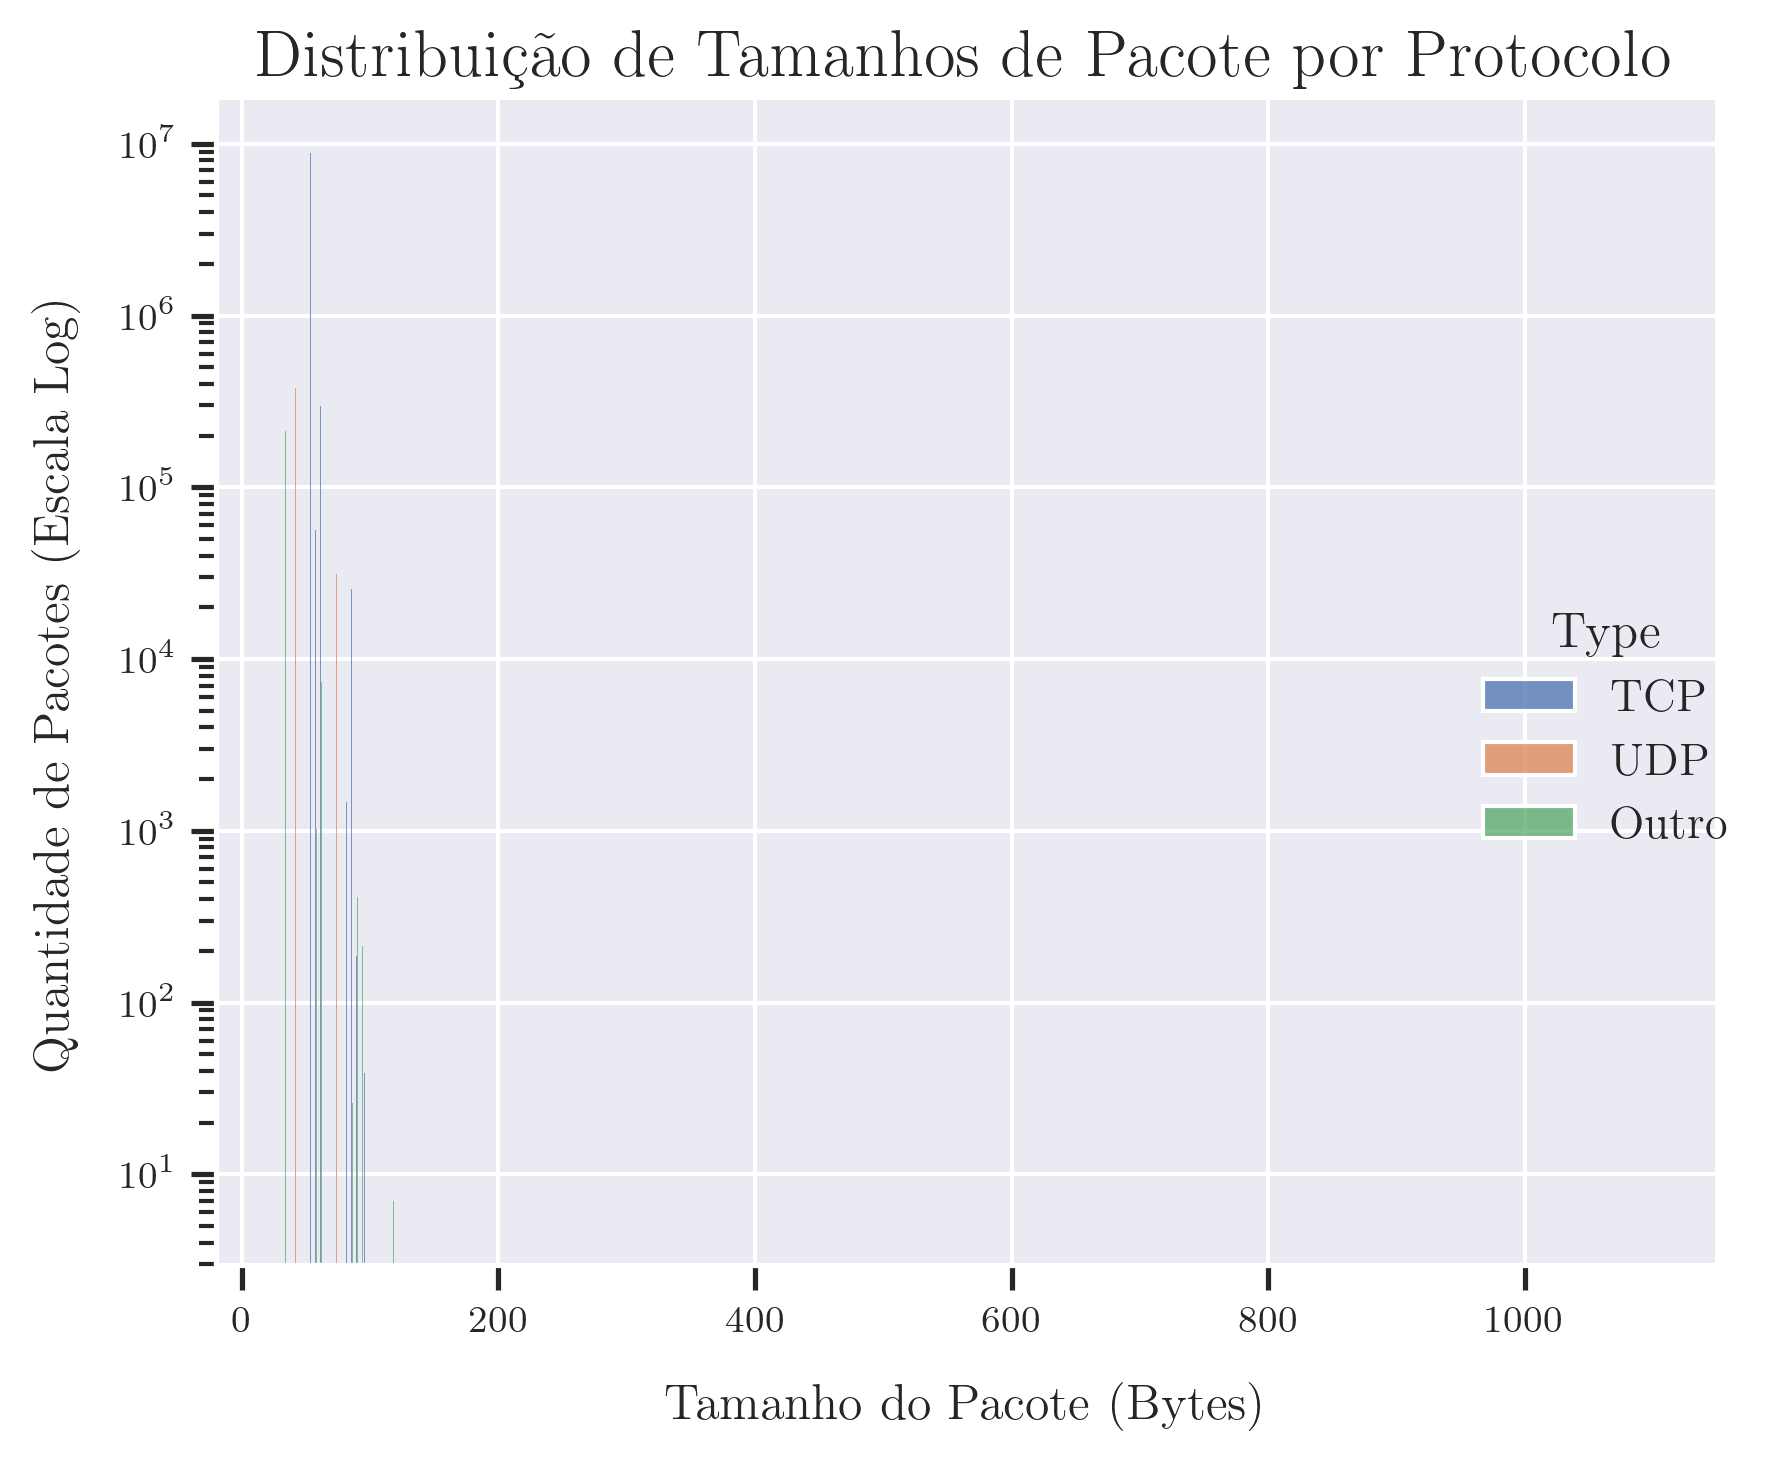
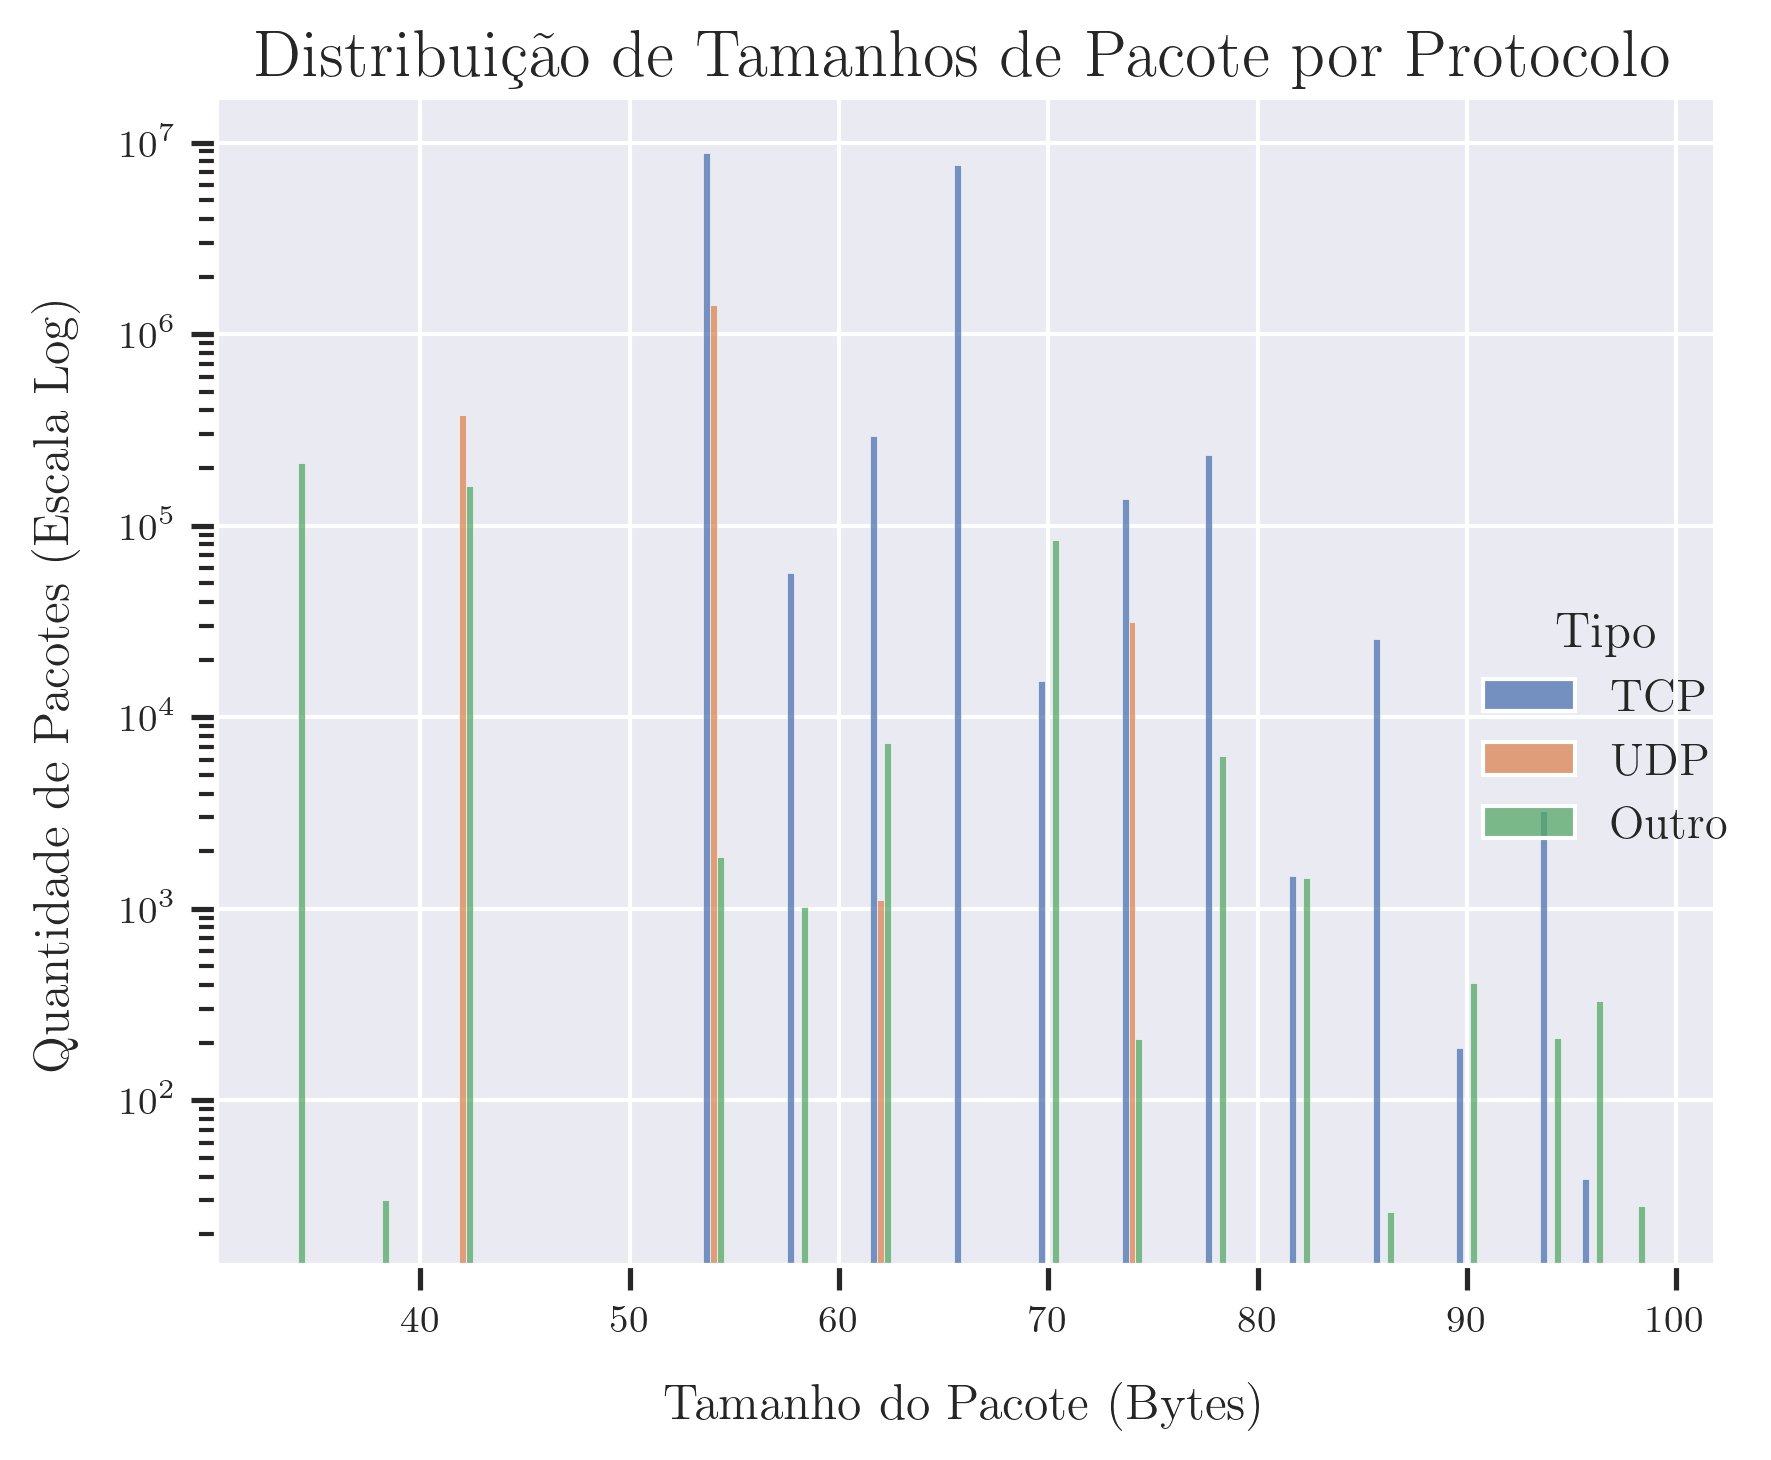
feat(report): 200701251400 analysis

diff --git a/report/text/02_analysis.tex b/report/text/02_analysis.tex
@@ -3,29 +3,30 @@
 A primeira etapa do projeto consistiu em realizar uma análise exploratória sobre os dados de tráfego para
 compreender suas características fundamentais.
 O \emph{dataset} original, após ser processado, resultou em uma série temporal de volume de tráfego agregado
-por segundo.
+por segundo. O primeiro \emph{dataset} escolhido para análise foi o \texttt{200701251400.dump.gz}, por conter
+um volume maior de dados.
 
 \begin{table}[!htb]
     \centering
-    \caption{Estatísticas descritivas para a série temporal de \texttt{bytes\_per\_second}.}
+    \caption{Estatísticas descritivas para a série temporal do \texttt{200701251400.dump.gz}.}
     \label{tab:eda-describe}
     \input{resource/200701251400.describe.tex}
 \end{table}
 
-A \Cref{tab:eda-describe} apresenta as estatísticas descritivas da série.
-[... Adicione seus comentários aqui sobre a média, desvio padrão, e a faixa de valores (min/max) ...]
+As estatísticas descritivas na \Cref{tab:eda-describe} fornecem um resumo de alto nível da intensidade do
+tráfego de rede durante o período de captura de 15 minutos. O tráfego apresenta uma média de aproximadamente
+1,27 MiB/s. No entanto, o desvio padrão é relativamente alto, 124,5 KiB/s, o que representa cerca de 10\% da
+média. No entanto, podemos ver que essa instabilidade não aparece na série temporal da
+\Cref{fig:eda-timeseries}, o que indica que as bordas da série causam esse alto valor de desvio padrão.
 
 \begin{figure}[!htb]
     \centering
     \includegraphics[width=0.95\textwidth]{resource/200701251400.protocol_dist.png}
-    \caption{Distribuição de tamanhos de pacote para os protocolos TCP e UDP. A frequência (eixo Y) está em
+    \caption{Distribuição de tamanhos de pacote para os protocolos TCP e UDP em
+        \texttt{200701251400.dump.gz}. A frequência (eixo Y) está em
     escala logarítmica para melhor visualização.}
     \label{fig:eda-protocol-dist}
 \end{figure}
-
-A \Cref{fig:eda-protocol-dist} ilustra a distribuição dos tamanhos de pacote.
-[... Adicione seus comentários aqui, observando por exemplo os picos de pacotes pequenos (ACKs TCP) e grandes
-(dados) ...]
 
 \begin{figure}[!htb]
     \centering
@@ -34,8 +35,11 @@ A \Cref{fig:eda-protocol-dist} ilustra a distribuição dos tamanhos de pacote.
     \label{fig:eda-timeseries}
 \end{figure}
 
-A \Cref{fig:eda-timeseries} mostra o comportamento do tráfego ao longo do tempo.
-[... Adicione seus comentários sobre a volatilidade, picos e períodos de estabilidade ...]
+O gráfico do tráfego agregado ao longo do tempo na \Cref{fig:eda-timeseries} oferece uma visão intuitiva do
+comportamento dos dados. A série parece ter uma linha de base relativamente estável em torno de 1,2-1,4
+MiB/s. Não há tendências óbvias e de longo prazo para cima ou para baixo nessa janela de 15 minutos, mas há
+``regimes'' claros em que o tráfego é maior e mais volátil, seguido por períodos em que é menor e mais
+estável. As quedas repentinas no início e no final são provavelmente artefatos do início e da interrupção da captura.
 
 \begin{figure}[!htb]
     \centering
@@ -46,9 +50,20 @@ A \Cref{fig:eda-timeseries} mostra o comportamento do tráfego ao longo do tempo
 \end{figure}
 
 Para uma análise mais aprofundada, decompomos a série em seus componentes de tendência, sazonalidade e
-resíduos, como visto na \Cref{fig:eda-decomposition}.
+resíduos, como visto na .
 [... Adicione seus comentários sobre a tendência de longo prazo e os padrões periódicos (sazonais) que o
 modelo precisará aprender ...]
+
+A análise de decomposição na \Cref{fig:eda-decomposition} fornece os insights mais profundos. A componente de
+tendência revela as alterações subjacentes e lentas no volume de tráfego. Podemos ver uma diminuição gradual
+na carga geral de tráfego desde o início até por volta da marca de 05:08, após o que ela começa a se
+recuperar ligeiramente. Isso mostra que a série não é completamente estacionária.
+
+O componente sazonal mostra claramente um padrão forte e repetitivo com um período de 60 segundos. Isso pode
+ser bem útil, pois indica um comportamento cíclico no uso da rede, talvez causado por processos automatizados
+em segundo plano, ferramentas de monitoramento ou comportamentos agregados de usuários que se repetem minuto
+a minuto. Por fim, o componente residual mostra o ``ruído'' ou as flutuações aleatórias deixadas após a
+remoção da tendência e da sazonalidade.
 
 \begin{figure}[!htb]
     \centering
@@ -57,7 +72,14 @@ modelo precisará aprender ...]
     \label{fig:eda-acf-pacf}
 \end{figure}
 
-Finalmente, a \Cref{fig:eda-acf-pacf} mostra as funções de autocorrelação. O decaimento lento da ACF confirma
-a presença de uma forte tendência. A PACF, por sua vez, mostra correlações significativas nos primeiros lags,
-justificando o uso de uma janela de look-back para o modelo LSTM.
-[... Adicione seus comentários ...]
+Por fim, os gráficos ACF e PACF na \Cref{fig:eda-acf-pacf} fornecem uma confirmação estatística dos padrões
+observados anteriormente.
+O gráfico da ACF mostra um decaimento muito lento. A correlação com valores passados permanece alta mesmo
+depois de alguns pontos, o que é um sinal clássico de uma não estacionariedade nos dados. Ela também confirma
+que o valor do tráfego em um segundo é altamente dependente do valor do segundo anterior.
+
+O gráfico PACF é crucial para a escolha da janela look_back. Ele mostra um pico muito grande na defasagem 1,
+indicando uma forte correlação direta com o valor imediatamente anterior. Em seguida, a correlação cai
+drasticamente, tornando-se estatisticamente insignificante após cerca de 10 a 12 defasagens. Isso fornece uma
+forte justificativa estatística para experimentar uma janela look_back de 10, pois ela representa a memória
+de curto prazo mais significativa da série.

diff --git a/network_traffic_predictor/analysis.py b/network_traffic_predictor/analysis.py
@@ -45,10 +45,11 @@ def _descriptive_stats(traffic_per_sec: pl.DataFrame, basename: Path, *, log: IO
     Generates a bytes_per_second time series and calculates its descriptive statistics.
     """
     print('--- Descriptive Statistics for Bytes per Second ---', file=log)
-    stats = traffic_per_sec.select('bytes_per_second').describe()
+    stats = traffic_per_sec.select(kbps=pl.col('bytes_per_second') / 1024).describe()
     print(stats, file=log)
     stats.to_pandas().to_latex(
         buf=basename.parent / f'{basename.stem}.describe.tex',
+        float_format='%.1f',
         index=False,
         escape=True,
     )
@@ -61,9 +62,9 @@ def _protocol_histogram(df: pl.DataFrame, basename: Path, *, log: IO[str]) -> No
     _ = plt.figure(figsize=(12, 7))
 
     _ = sns.displot(
-        df.select('Size (bytes)', 'Type').to_pandas(),
+        df.select('Size (bytes)', Tipo='Type').filter(pl.col('Size (bytes)') <= 100).to_pandas(),
         x='Size (bytes)',
-        hue='Type',
+        hue='Tipo',
         kind='hist',
         discrete=True,
         binwidth=1,
@@ -106,7 +107,7 @@ def _time_series_decomposition(traffic_per_sec: pl.DataFrame, basename: Path, *,
     """
     Decomposition of the time series using `statsmodel`.
     """
-    PERIOD: Final = 60 * 60
+    PERIOD: Final = 60
     print(f'Time series decomposition: assuming period of {PERIOD} seconds.', file=log)
     if len(traffic_per_sec) < 2 * PERIOD:
         print(f'Warning: Time series is too short for seasonal decomposition with period={PERIOD}. Skipping.', file=log)

diff --git a/results/200701251400.describe.tex b/results/200701251400.describe.tex
@@ -1,15 +1,15 @@
 \begin{tabular}{lr}
     \toprule
-    statistic & bytes\_per\_second \\
+    statistic & kbps \\
     \midrule
-    count & 902.000000 \\
-    null\_count & 0.000000 \\
-    mean & 1277651.995565 \\
-    std & 124351.313530 \\
-    min & 147098.000000 \\
-    25\% & 1186600.000000 \\
-    50\% & 1268432.000000 \\
-    75\% & 1379088.000000 \\
-    max & 1538992.000000 \\
+    count & 902.0 \\
+    null\_count & 0.0 \\
+    mean & 1247.7 \\
+    std & 121.4 \\
+    min & 143.7 \\
+    25\% & 1158.8 \\
+    50\% & 1238.7 \\
+    75\% & 1346.8 \\
+    max & 1502.9 \\
     \bottomrule
 \end{tabular}

diff --git a/report/resource/200701251400.describe.tex b/report/resource/200701251400.describe.tex
@@ -1,1 +1,14 @@
-../../results/200701251400.describe.tex
+\begin{tabular}{cc}
+    \toprule
+    Estatística & Valor \\
+    \midrule
+    Quantidade & 902 \\
+    Média & \SI{1247.7}{\kibi\bps} \\
+    Desvio Padrão & \SI{121.4}{\kibi\bps} \\
+    Mínimo & \SI{143.7}{\kibi\bps} \\
+    25° Percentil & \SI{1158.8}{\kibi\bps} \\
+    50° Percentil & \SI{1238.7}{\kibi\bps} \\
+    75° Percentil & \SI{1346.8}{\kibi\bps} \\
+    Máximo & \SI{1502.9}{\kibi\bps} \\
+    \bottomrule
+\end{tabular}

diff --git a/report/main.tex b/report/main.tex
@@ -99,6 +99,10 @@
 \DeclareSIUnit{\bps}{\bit\per\second}
 \DeclareSIUnit{\Bps}{\byte\per\second}
 
+\usepackage{silence}
+
+\WarningFilter*{latex}{Text page \thepage\space contains only floats}
+
 \title{
     \vspace{-2\baselineskip}
     Projeto 3: \\
